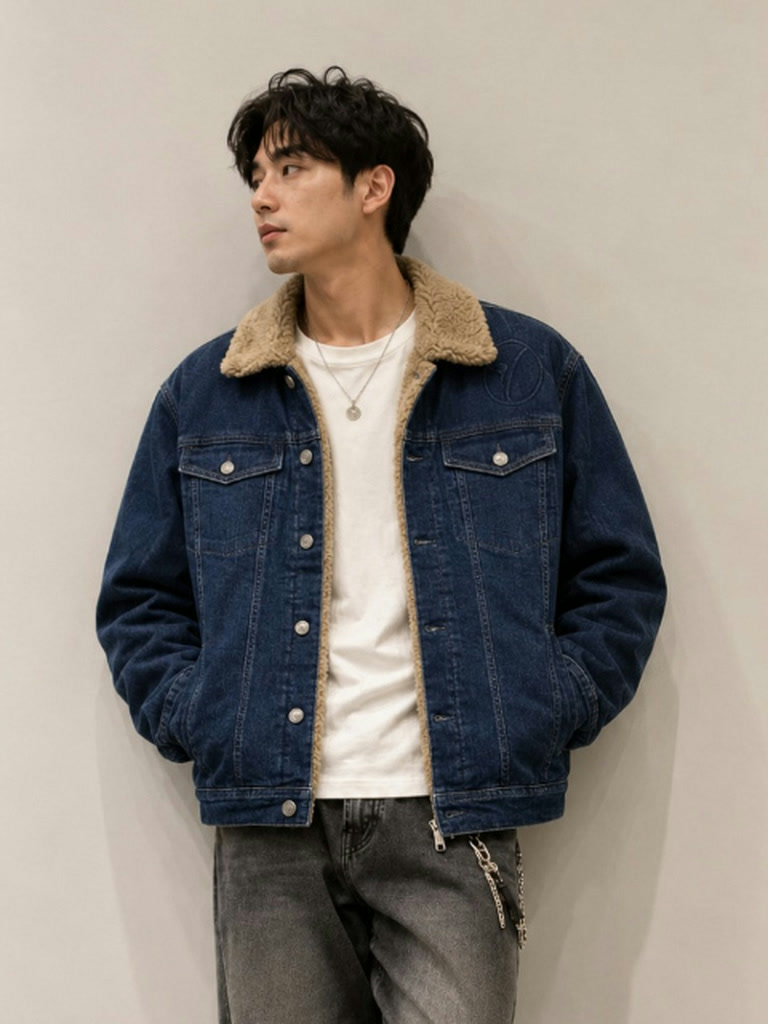
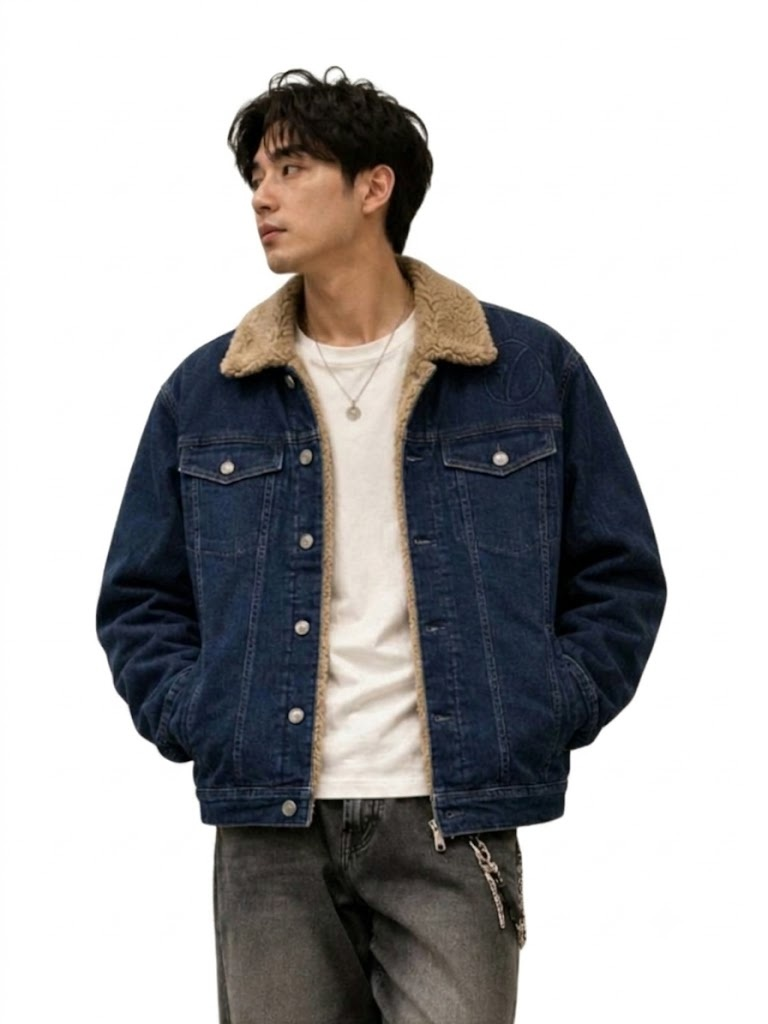
feat: update product imagery, framing and card model zoom

diff --git a/app.js b/app.js
@@ -44,10 +44,11 @@ function colorOf(p) {
 function card(p) {
   const [main, alt] = cardImages(p);
   const flat = !p.images.some((i) => i.includes("-model"));
+  const isModel = Boolean(main && main.includes("-model"));
   return `
     <a class="card rv" href="/product/${p.handle}" data-link>
       <div class="card-media${flat ? " flat" : ""}">
-        <img src="${main}" alt="${esc(p.name)}" loading="lazy" />
+        <img src="${main}" class="${isModel ? "img-model" : ""}" alt="${esc(p.name)}" loading="lazy" />
         ${alt ? `<img class="alt" src="${alt}" alt="" loading="lazy" />` : ""}
       </div>
       <div class="card-meta">
@@ -1170,10 +1171,11 @@ function shop(cat, sort = "featured", type = "") {
 // Products page cell: plain grey ground, centred caption, alt image on hover.
 function uyCard(p) {
   const [main, alt] = cardImages(p);
+  const isModel = Boolean(main && main.includes("-model"));
   return `
     <a class="uy-cell" href="/product/${p.handle}" data-link>
       <div class="uy-media">
-        <img src="${main}" alt="${esc(p.name)}" loading="lazy" />
+        <img src="${main}" class="${isModel ? "img-model" : ""}" alt="${esc(p.name)}" loading="lazy" />
         ${alt ? `<img class="alt" src="${alt}" alt="" loading="lazy" />` : ""}
       </div>
       <p class="uy-cap">${esc(p.type)} <span>${esc(colorOf(p))}</span> ${inr(p.price)}</p>
@@ -1754,7 +1756,7 @@ document.getElementById("subForm").addEventListener("submit", (e) => {
 
 /* ---------- Boot ---------- */
 
-fetch("/data/products.json?v=17")
+fetch("/data/products.json?v=34")
   .then((r) => r.json())
   .then((data) => {
     products = data;

diff --git a/index.html b/index.html
@@ -10,7 +10,7 @@
     <link rel="preconnect" href="https://fonts.googleapis.com" />
     <link rel="preconnect" href="https://fonts.gstatic.com" crossorigin />
     <link href="https://fonts.googleapis.com/css2?family=Inter:wght@100..900&family=Anton&display=swap" rel="stylesheet" />
-    <link rel="stylesheet" href="/styles.css?v=34" />
+    <link rel="stylesheet" href="/styles.css?v=35" />
     <link rel="stylesheet" href="/home2.css?v=59" />
   </head>
   <body>
@@ -93,6 +93,6 @@
       <div class="bag-foot" id="bagFoot"></div>
     </aside>
 
-    <script type="module" src="/app.js?v=108"></script>
+    <script type="module" src="/app.js?v=125"></script>
   </body>
 </html>

diff --git a/styles.css b/styles.css
@@ -815,6 +815,8 @@ body.dark .k-split { border-top: 0; }
 .uy-cell:nth-child(5n) { border-right: 0; }
 .uy-media { position: relative; aspect-ratio: 4 / 5.4; overflow: hidden; }
 .uy-media img { position: absolute; inset: 0; width: 100%; height: 100%; object-fit: cover; mix-blend-mode: multiply; transition: opacity 0.5s ease; }
+.uy-media img.img-model, .card-media img.img-model { transform: scale(1.08); transform-origin: center 25%; }
+.card:hover .card-media img.img-model { transform: scale(1.10); }
 .uy-media img.alt { opacity: 0; }
 .uy-cell:hover .uy-media img.alt { opacity: 1; }
 .uy-cell:hover .uy-media img:not(.alt):not(:only-child) { opacity: 0; }
